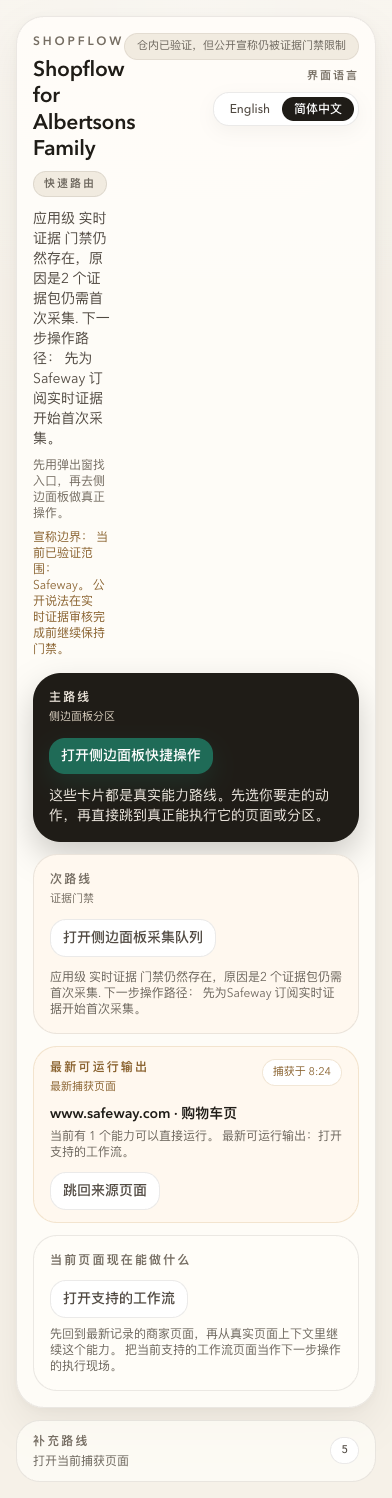
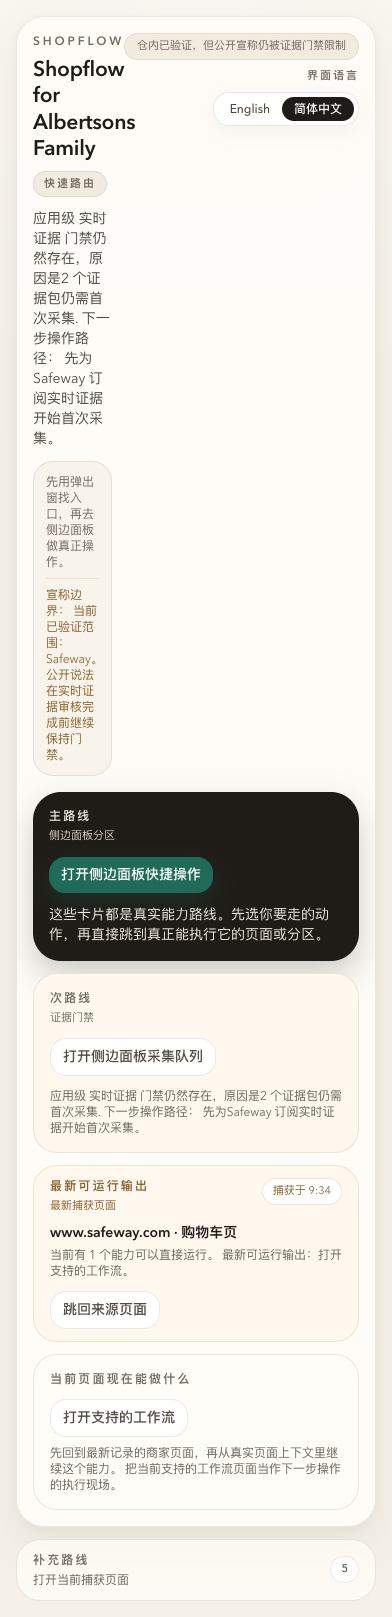
fix: reduce repeated UI exposure

diff --git a/packages/ui/src/side-panel-home-page.tsx b/packages/ui/src/side-panel-home-page.tsx
@@ -89,6 +89,10 @@ export function SidePanelHomePage({
   const secondaryNavigationPreview = model.secondaryNavigation[0] ?? null;
   const recentActivityOpen = currentHash === '#recent-activity';
   const nextRoutesOpen = currentHash === '#next-routes';
+  const capabilityGridOpen =
+    currentHash === '#capability-grid' || model.quickActions.length === 0;
+  const capabilityGridPreview =
+    primaryRoute?.label ?? model.capabilities[0]?.label ?? copy.sidePanel.noRunnableCapability;
 
   return (
     <main
@@ -392,15 +396,18 @@ export function SidePanelHomePage({
 
         <div id="capability-grid">
           <Card className="overflow-hidden bg-[rgba(255,253,248,0.82)]">
-            <section>
-              <div className="flex items-center justify-between gap-3">
-                <div className="flex items-center gap-2">
-                  <Compass className="h-4 w-4" />
-                  <div>
+            <details open={capabilityGridOpen || undefined}>
+              <summary className="flex items-center justify-between gap-3 rounded-[1.5rem] bg-[#f8f3eb] px-4 py-4">
+                <div className="flex min-w-0 items-start gap-2">
+                  <Compass className="mt-0.5 h-4 w-4 shrink-0" />
+                  <div className="min-w-0">
                     <h2 className="text-sm font-semibold">
                       {copy.sidePanel.availableOnPage}
                     </h2>
-                    <p className="mt-1 text-xs text-stone-500">
+                    <p className="mt-1 truncate text-xs text-stone-500">
+                      {capabilityGridPreview}
+                    </p>
+                    <p className="mt-2 text-xs text-stone-600">
                       {readyCapabilities}{' '}
                       {copy.sidePanel.statusLabels.live.toLowerCase()} ·{' '}
                       {model.capabilities.length}{' '}
@@ -411,9 +418,9 @@ export function SidePanelHomePage({
                   </div>
                 </div>
                 <span className="rounded-full border border-stone-200 bg-white px-2.5 py-1 text-[11px] font-medium text-stone-500">
-                  {copy.sidePanel.openRoute}
+                  {model.capabilities.length}
                 </span>
-              </div>
+              </summary>
               <div className="mt-3 grid grid-cols-1 gap-2">
                 {model.capabilities.map((capability) => (
                   <div
@@ -447,7 +454,7 @@ export function SidePanelHomePage({
                   </div>
                 ))}
               </div>
-            </section>
+            </details>
           </Card>
         </div>
 

diff --git a/apps/ext-shopping-suite/src/suite-alpha-page.tsx b/apps/ext-shopping-suite/src/suite-alpha-page.tsx
@@ -54,6 +54,7 @@ export function SuiteAlphaPage({
   );
   const featuredRoute = priorityRoutes[0] ?? null;
   const secondaryRoutes = priorityRoutes.slice(1);
+  const priorityRoutesOpen = currentHash === '#priority-routes' || !featuredRoute;
 
   return (
     <main
@@ -319,7 +320,7 @@ export function SuiteAlphaPage({
 
         <div id="priority-routes">
           <Card>
-            <details open>
+            <details open={priorityRoutesOpen || undefined}>
               <summary className="flex items-center justify-between gap-3 rounded-xl bg-stone-50 px-3 py-3">
                 <div>
                   <h2 className="text-sm font-semibold">
@@ -330,12 +331,12 @@ export function SuiteAlphaPage({
                   </p>
                   {featuredRoute ? (
                     <p className="mt-2 text-xs text-stone-600">
-                      {featuredRoute.title} · {featuredRoute.summary}
+                      {featuredRoute.title} · {featuredRoute.routeOriginLabel}
                     </p>
                   ) : null}
                 </div>
-                <span className="text-xs font-medium text-stone-500">
-                  {getShopflowLocaleCatalog(locale).sidePanel.openRoute}
+                <span className="rounded-full border border-stone-200 bg-white px-2.5 py-1 text-[11px] font-medium text-stone-500">
+                  {priorityRoutes.length}
                 </span>
               </summary>
               <div className="mt-3 space-y-3">

diff --git a/packages/ui/src/popup-launcher.tsx b/packages/ui/src/popup-launcher.tsx
@@ -136,14 +136,16 @@ export function PopupLauncher({
                 {copy.popup.quickRouter}
               </p>
               <p className={`mt-3 text-sm ${surfaceTokens.body}`}>{summary}</p>
-              <p className="mt-2 text-xs text-[#756d62]">
-                {copy.popup.quickRouterIntro}
-              </p>
-              {claimBoundaryNote ? (
-                <p className="mt-2 text-xs text-[#8a6330]">
-                  {claimBoundaryNote}
+              <div className="mt-3 rounded-[1.25rem] border border-[rgba(58,49,38,0.10)] bg-[#f8f3eb] px-3 py-3">
+                <p className="text-xs text-[#756d62]">
+                  {copy.popup.quickRouterIntro}
                 </p>
-              ) : null}
+                {claimBoundaryNote ? (
+                  <p className="mt-2 border-t border-[rgba(183,121,31,0.16)] pt-2 text-xs text-[#8a6330]">
+                    {claimBoundaryNote}
+                  </p>
+                ) : null}
+              </div>
             </div>
             <div className="flex shrink-0 flex-col items-end gap-2">
               {statusLabel ? (

diff --git a/tests/e2e/ext-shopping-suite.smoke.spec.ts b/tests/e2e/ext-shopping-suite.smoke.spec.ts
@@ -84,6 +84,9 @@ test('ext-shopping-suite smoke stays internal-only and renders rollout navigatio
     await expect(sidePanel.locator('body')).toContainText(
       /Verified scope navigator/i
     );
+    await sidePanel
+      .locator('#priority-routes summary')
+      .click();
     await expect(
       sidePanel
         .locator('#priority-routes')
